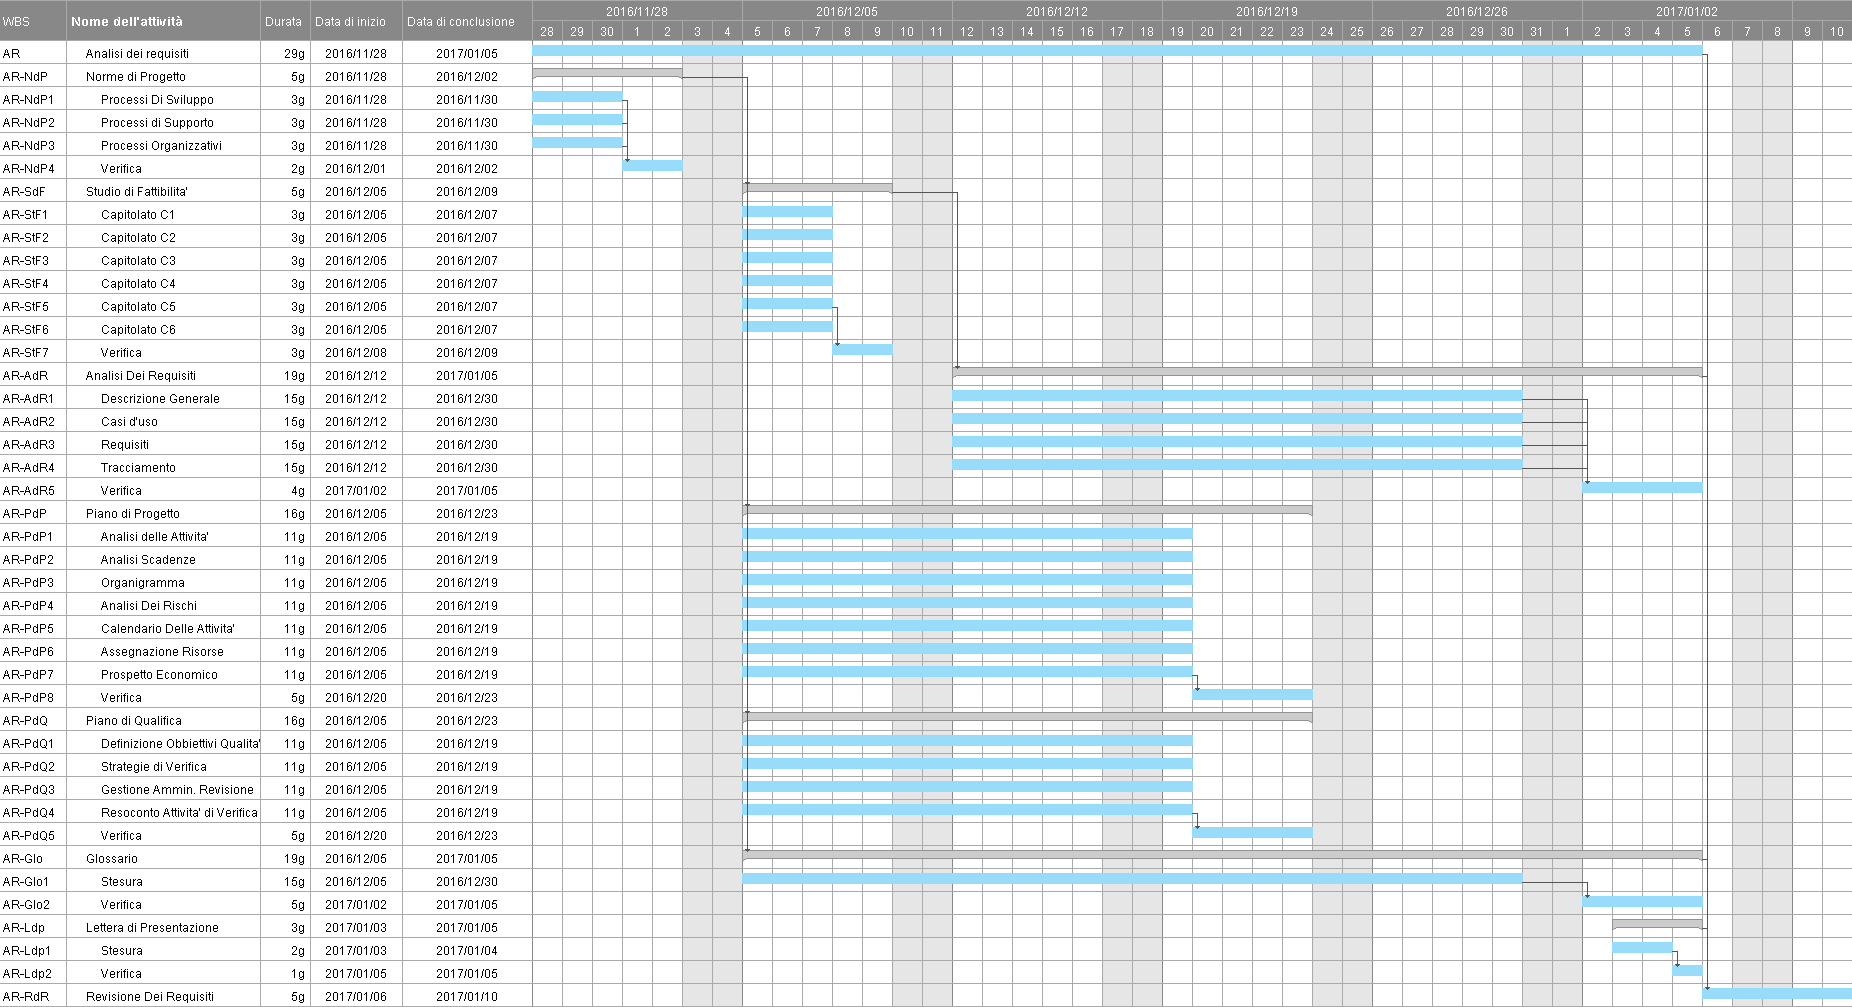
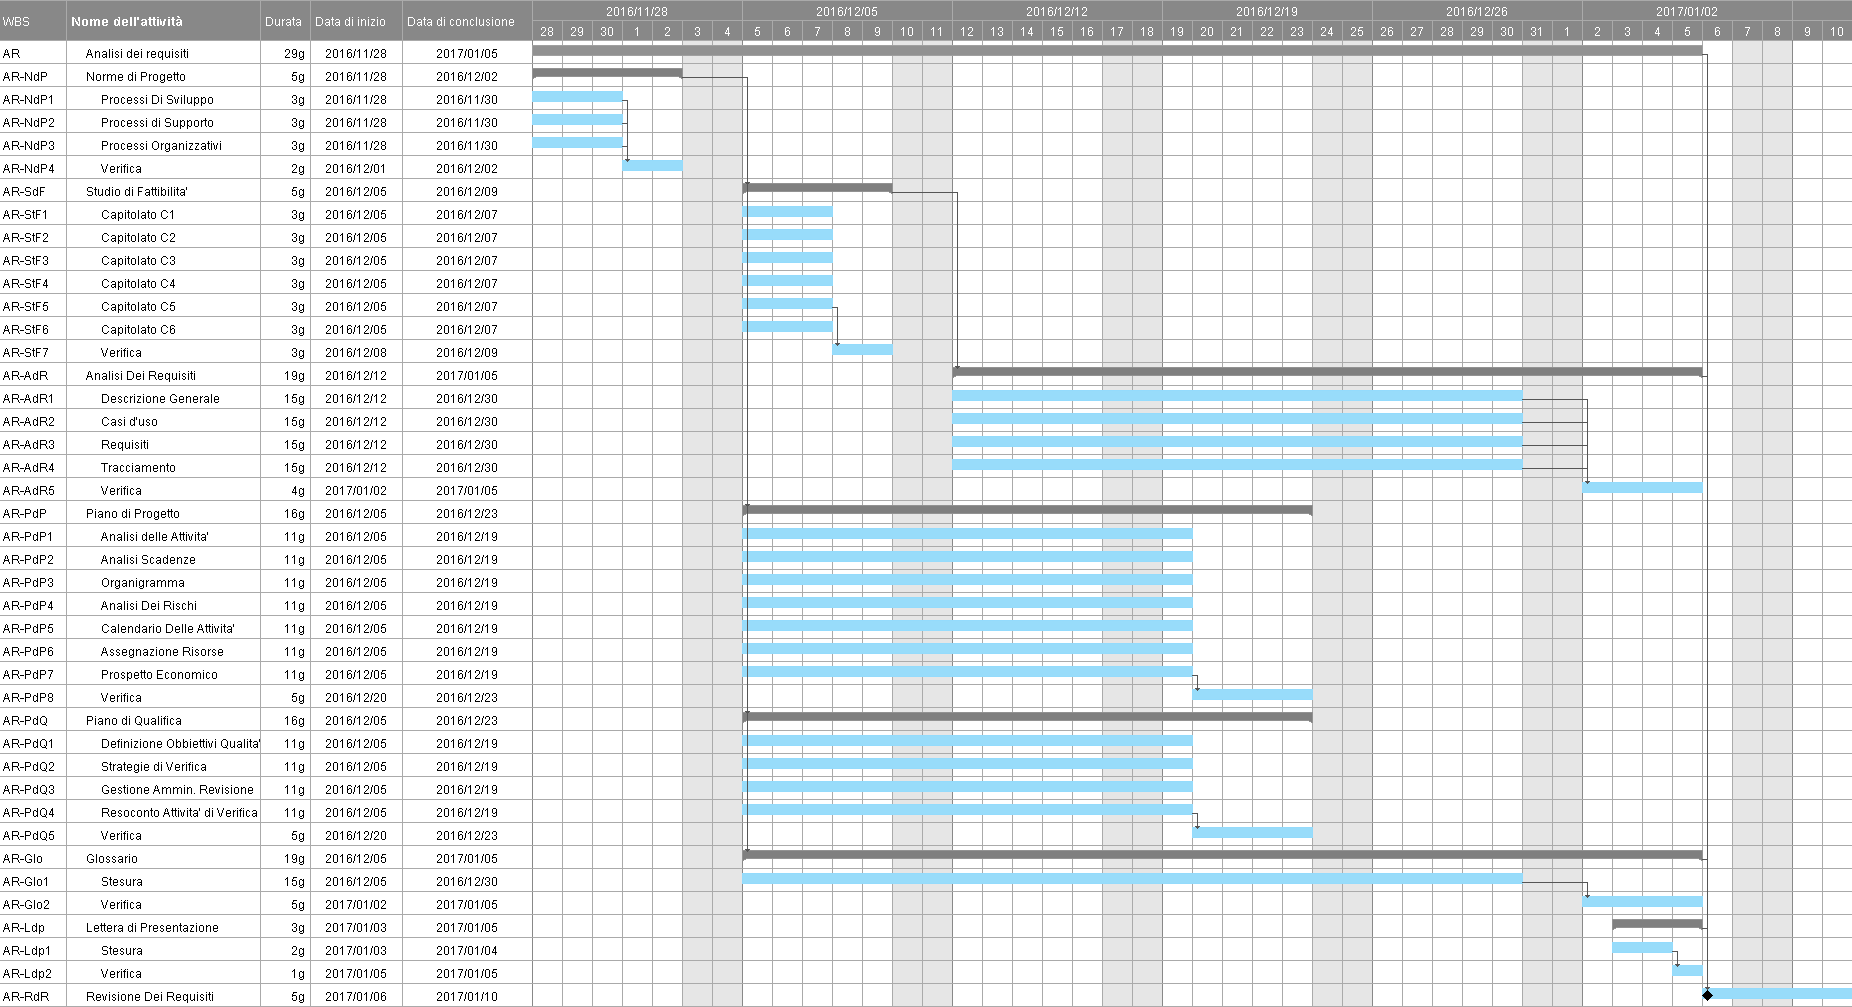
update PdP

diff --git a/Docs/RR/Piano di Progetto/includes/pianificazione.tex b/Docs/RR/Piano di Progetto/includes/pianificazione.tex
@@ -16,11 +16,6 @@ Per ognuno di questi periodi, vengono messe in evidenza, attraverso un \textbf{d
 \end{itemize}
 Una milestone\ped{G}, quindi, coincide con la terminazione di un periodo, ed occorre fare attenzione a non causare dei ritardi su un'attività, poichè essi provocano lo slittamento temporale di tutte le attività ad essa collegate.
 \\\\
-Nei diagrammi di Gantt\ped{G}, le sotto-attività possono essere di due tipi:
-\begin{itemize}
-	\item \textbf{Primarie}: sono necessarie per la realizzazione del progetto nei tempi prestabiliti e rispetto alla milestone\ped{G} fissata. Tutte le attività di questo tipo vengono rappresentate all’interno del diagramma di Gantt\ped{G} con il colore \textbf{rosso};
-	\item \textbf{Secondarie}: possono essere svolte in modo parallelo alle sotto-attività primarie. A differenza di quest'ultime, dei ritardi in attività di questo tipo, non comportano uno slittamento temporale dell'intero progetto. Tutte le attività di questo tipo vengono rappresentate all’interno del diagramma di Gantt\ped{G} con il colore \textbf{blu}.
-\end{itemize}
 
 	\subsection{Suddivisione delle attività}
 		\subsubsection{\AR}
